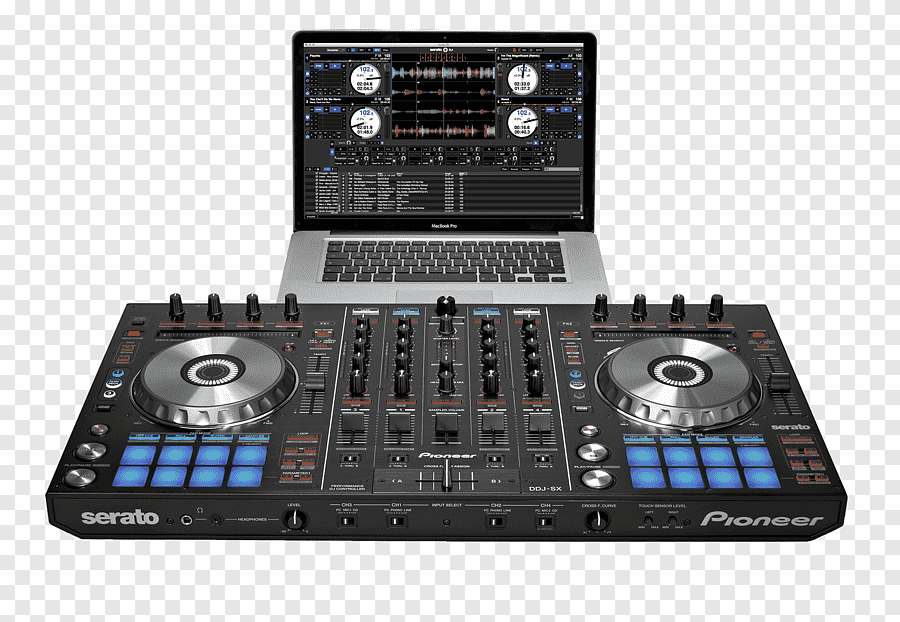
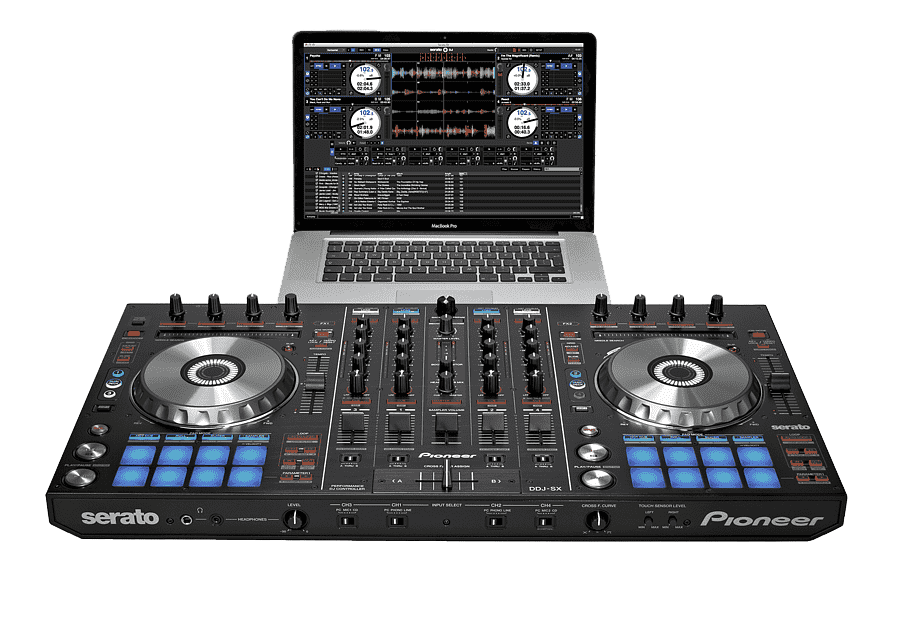
Index finalizado - REVISIÓN

Changed region(s): [[0.0, 0.0, 1.0, 1.0]]

diff --git a/web.css b/web.css
@@ -5,24 +5,36 @@ body {
 
 .Title {
 	color: aqua;
-	font-size: 150px;
+	font-size: 100px;
 	text-align: center;
 	margin: 20px 0; /* Espacio arriba y abajo del título */
 }
 
 .menu {
 	text-align: center; /* Centra los botones */
-	margin: 20px 0; /* Espacio arriba y abajo del menú */
+	margin: 10px 0; /* Espacio arriba y abajo del menú */
+}
+
+.photo {
+	text-align: center; /* Centra los botones */
+	margin: 10px 0;/* Espacio arriba y abajo del menú */
+	
+}
+.photo img {
+	width: 100%; /* Ajusta el ancho de la imagen al contenedor */
+	max-width: 700px; /* Tamaño máximo de la imagen */
+	height: auto; /* Mantiene la relación de aspecto */
 }
 
 .menu button {
-	padding: 10px 30px; /* Tamaño de los botones */
+	padding: 5px 30px; /* Tamaño de los botones */
 	margin: 5px; /* Espacio entre los botones */
-	font-size: 25px; /* Tamaño de la fuente */
+	font-size: 20px; /* Tamaño de la fuente */
 	background-color: aqua; /* Color de fondo */
 	color: white; /* Color del texto */
-	border: none; /* Sin borde */
-	border-radius: 10px; /* Bordes redondeados */
+	/*border:none;  Sin borde */
+	border-color: #fb9c0c;
+	border-radius: 20px; /* Bordes redondeados */
 	cursor: pointer; /* Cambia el cursor al pasar el mouse */
 	transition: background-color 0.3s; /* Transición suave para el cambio de color */
 }
@@ -36,20 +48,5 @@ body {
 	background-color: #fb9c0c; /* Color de fondo al pasar el mouse */
 }
 
-image{
-	align-items: center;
-}
-/* 
-Cambios y Mejoras
-Centrado de Botones: Añadí text-align: center; a la clase .menu para centrar los botones dentro de su contenedor.
 
-Margen en el Título: Añadí márgenes al título para que haya espacio arriba y abajo, mejorando la legibilidad.
 
-Transiciones: Se añadió una transición suave a los botones para que el cambio de color sea más atractivo.
-
-Cambio de Enlaces: He modificado los href de los botones para que apunten a diferentes archivos (biografia.html, portfolio.html, y contacto.html). Asegúrate de que esos archivos existan en tu proyecto.
-
-Descripción de Imagen: Agregué un texto alternativo en el <figcaption> para que sea más accesible.
-
-Con estas mejoras, tu página debería verse más pulida y los botones estarán perfectamente centrados. Si necesitas más ajustes, ¡dímelo!
-*/

diff --git a/index.html b/index.html
@@ -16,11 +16,14 @@
 		<button><a href="portfolio.html">PORTFOLIO</a></button>
 		<button><a href="contacto.html">CONTACTO</a></button>
 	</div>
+	<div class="photo">
+		<figure>
+			<img src="Pionner DJ 2.png" alt="Pionner DJ">
+			<!-- <figcaption>Descripción de la imagen</figcaption> -->
+		</figure>
+	</div>
 
-	<figure>
-		<img src="Pionner DJ 2.png" alt="Pionner DJ">
-		<figcaption>Descripción de la imagen</figcaption>
-	</figure>
+
 
 </body>
 
